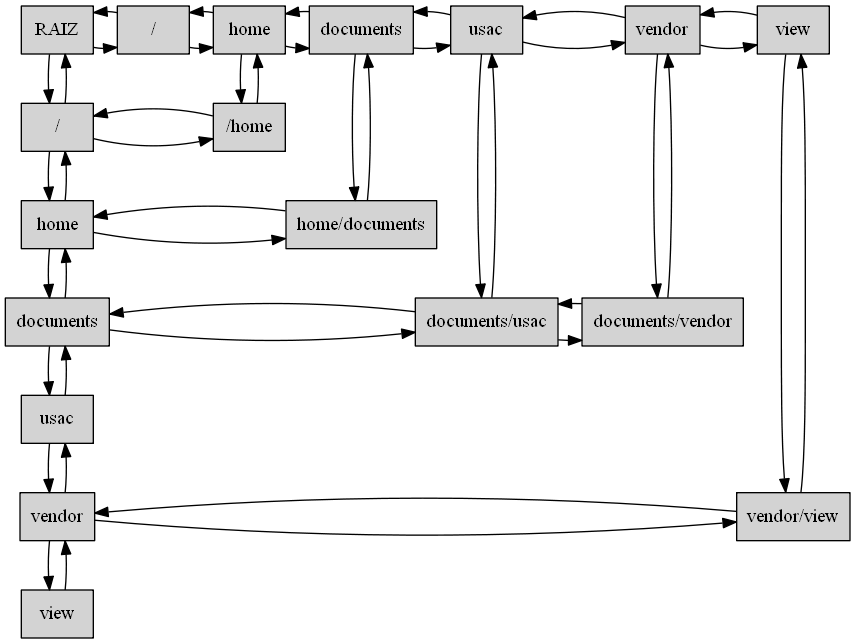
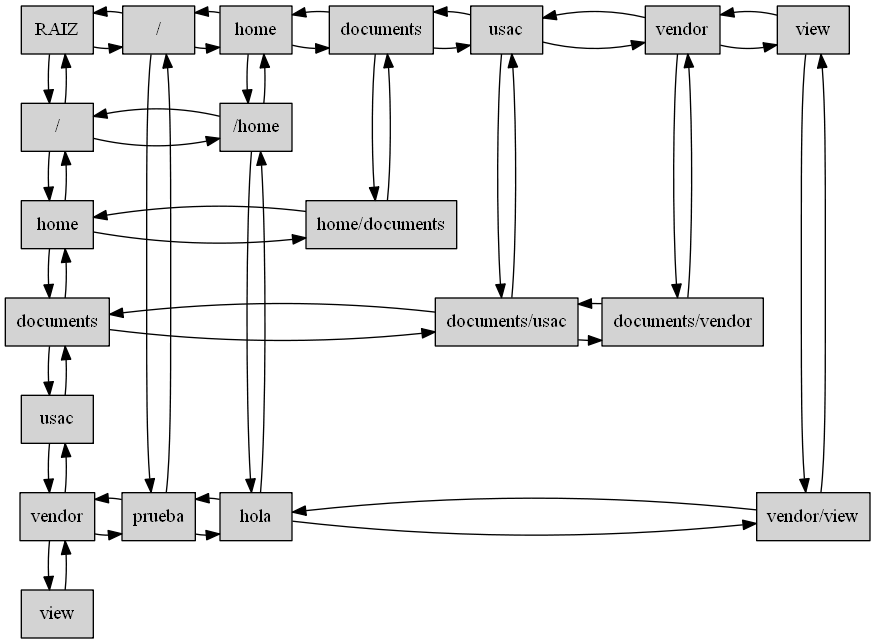
Modify report

diff --git a/src/Structures/MatrizDispersa.java b/src/Structures/MatrizDispersa.java
@@ -82,8 +82,8 @@ public class MatrizDispersa {
             while(temp2!=null){
                 rank+="\""+temp2.ruta+"-"+temp2.rutax+temp2.rutay+"\";";
                 try{
-                    relaciones+="\""+temp2.ruta+"-"+temp2.rutax+temp2.rutay+"\""+"->"+"\""+temp2.derech.ruta+"-"+temp2.derech.rutax+temp2.rutay+"\"\n";
-                    relaciones+="\""+temp2.ruta+"-"+temp2.rutax+temp2.rutay+"\""+"->"+"\""+temp2.derech.ruta+"-"+temp2.derech.rutax+temp2.rutay+"\"[dir=back]\n";
+                    relaciones+="\""+temp2.ruta+"-"+temp2.rutax+temp2.rutay+"\""+"->"+"\""+temp2.derech.ruta+"-"+temp2.derech.rutax+temp2.derech.rutay+"\"\n";
+                    relaciones+="\""+temp2.ruta+"-"+temp2.rutax+temp2.rutay+"\""+"->"+"\""+temp2.derech.ruta+"-"+temp2.derech.rutax+temp2.derech.rutay+"\"[dir=back]\n";
                 }catch(Exception e){}
                 temp2 = temp2.derech;
             }
@@ -118,8 +118,8 @@ public class MatrizDispersa {
             while(temp2!=null){
                 file.write("\""+temp2.ruta+"-"+temp2.rutax+temp2.rutay+"\"[label =\""+temp2.ruta+"\" ,group = "+String.valueOf(cont)+" ]\n");
                 try{
-                    relaciones+="\""+temp2.ruta+"-"+temp2.rutax+temp2.rutay+"\""+"->"+"\""+temp2.abajo.ruta+"-"+temp2.abajo.rutax+temp2.rutay+"\"\n";
-                    relaciones+="\""+temp2.ruta+"-"+temp2.rutax+temp2.rutay+"\""+"->"+"\""+temp2.abajo.ruta+"-"+temp2.abajo.rutax+temp2.rutay+"\"dir=back]\n";
+                    relaciones+="\""+temp2.ruta+"-"+temp2.rutax+temp2.rutay+"\""+"->"+"\""+temp2.abajo.ruta+"-"+temp2.abajo.rutax+temp2.abajo.rutay+"\"\n";
+                    relaciones+="\""+temp2.ruta+"-"+temp2.rutax+temp2.rutay+"\""+"->"+"\""+temp2.abajo.ruta+"-"+temp2.abajo.rutax+temp2.abajo.rutay+"\"[dir=back]\n";
                 }catch(Exception e){}
                 temp2=temp2.abajo;
             }

diff --git a/src/Structures/ListaHorizontal.java b/src/Structures/ListaHorizontal.java
@@ -14,6 +14,7 @@ import Nodes.NodoContenido;
 public class ListaHorizontal {
     NodoContenido primero;
     NodoContenido ultimo;
+    Cabecera cabecera;
     public ListaHorizontal() {
         primero = null;
         ultimo = null;
@@ -32,7 +33,10 @@ public class ListaHorizontal {
         }
         else {
             if (nuevo.ruta!=null) {
+            
+                   
                 insertarAlFinal(nuevo);
+                
             }
         }
     }

diff --git a/src/edd_2s2019_py2_201701029/EDD_2S2019_PY2_201701029.java b/src/edd_2s2019_py2_201701029/EDD_2S2019_PY2_201701029.java
@@ -30,6 +30,8 @@ public class EDD_2S2019_PY2_201701029 {
         matriz.insertar("usac","documents", "documents/usac");
         matriz.insertar("vendor","documents", "documents/vendor");
         matriz.insertar("","usac", "");
+        matriz.insertar("/","vendor", "prueba");
+        matriz.insertar("home","vendor", "hola");
         matriz.insertar("view","vendor", "vendor/view");
         matriz.insertar("","view", "");
         TablaHash tabla = new TablaHash();
